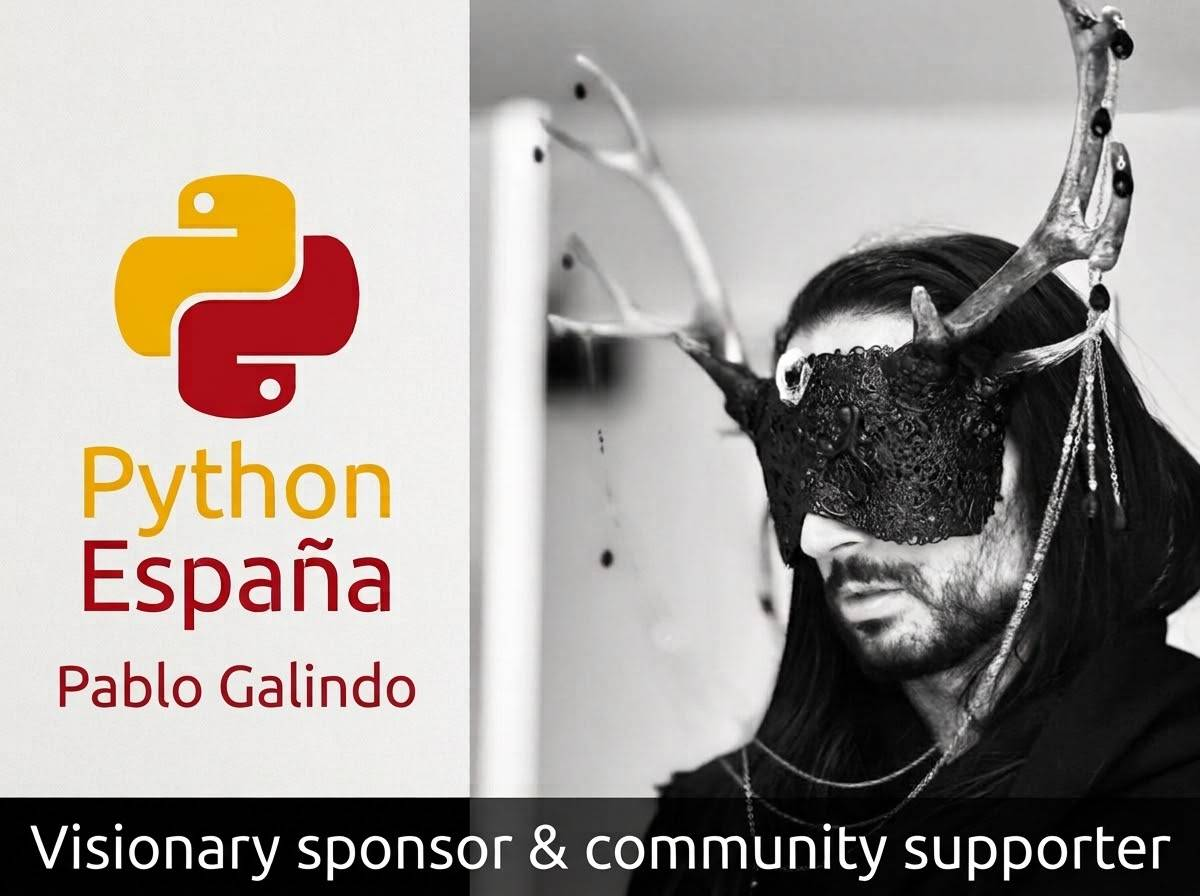
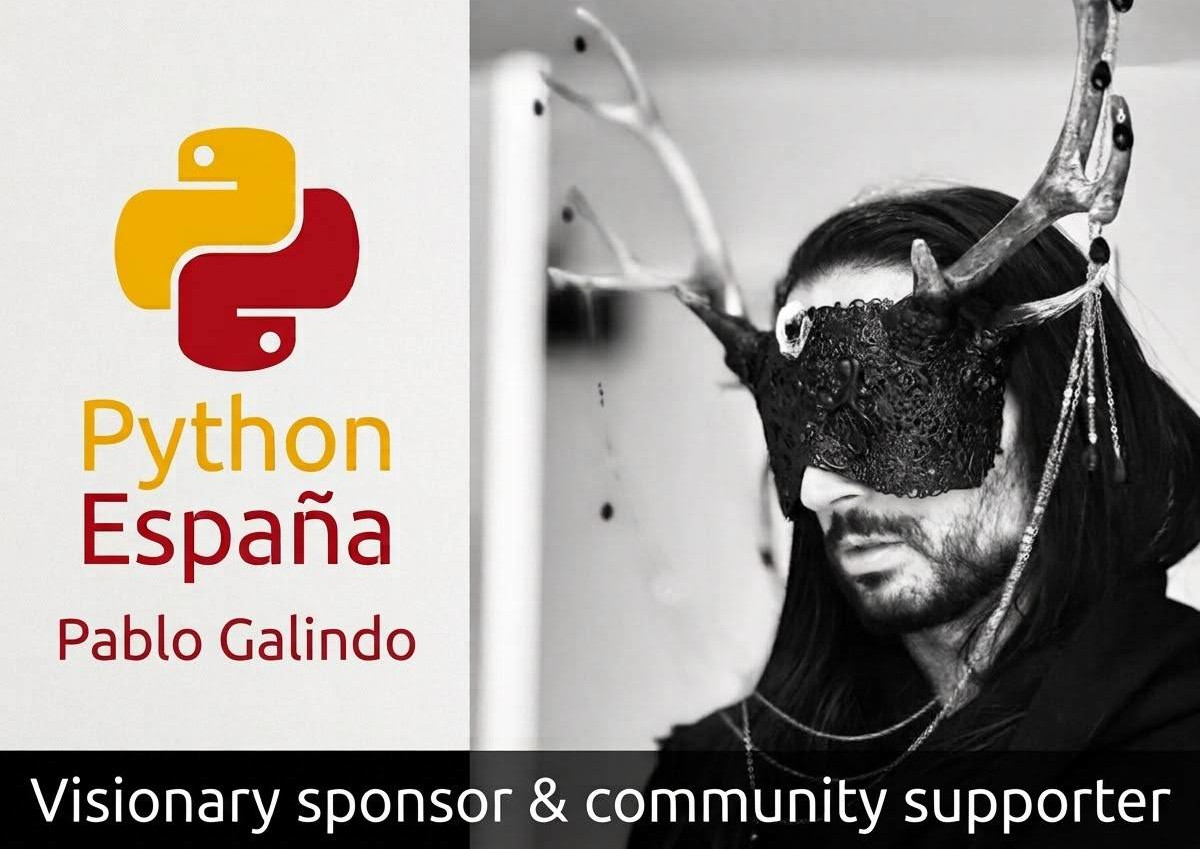
fix(sponsors): arreglar imagen de Pablo Galindo (#247)

diff --git a/src/types/sponsors.ts b/src/types/sponsors.ts
@@ -4,6 +4,8 @@ export interface ISponsor {
   name: string
   website: string
   tier: TSponsorTier
-  logobg: string
+  logobg?: string
+  nobackground?: boolean
+  nopadding?: boolean
   logo: string
 }

diff --git a/src/data/sponsors/pablo-galindo.md b/src/data/sponsors/pablo-galindo.md
@@ -2,6 +2,7 @@
 name: 'Pablo Galindo'
 website: 'https://pablogsal.com/'
 tier: 'community'
-logobg: '#ffffff'
+nobackground: true
+nopadding: true
 logo: '/collaborators/PabloGalindo.jpg'
 ---
